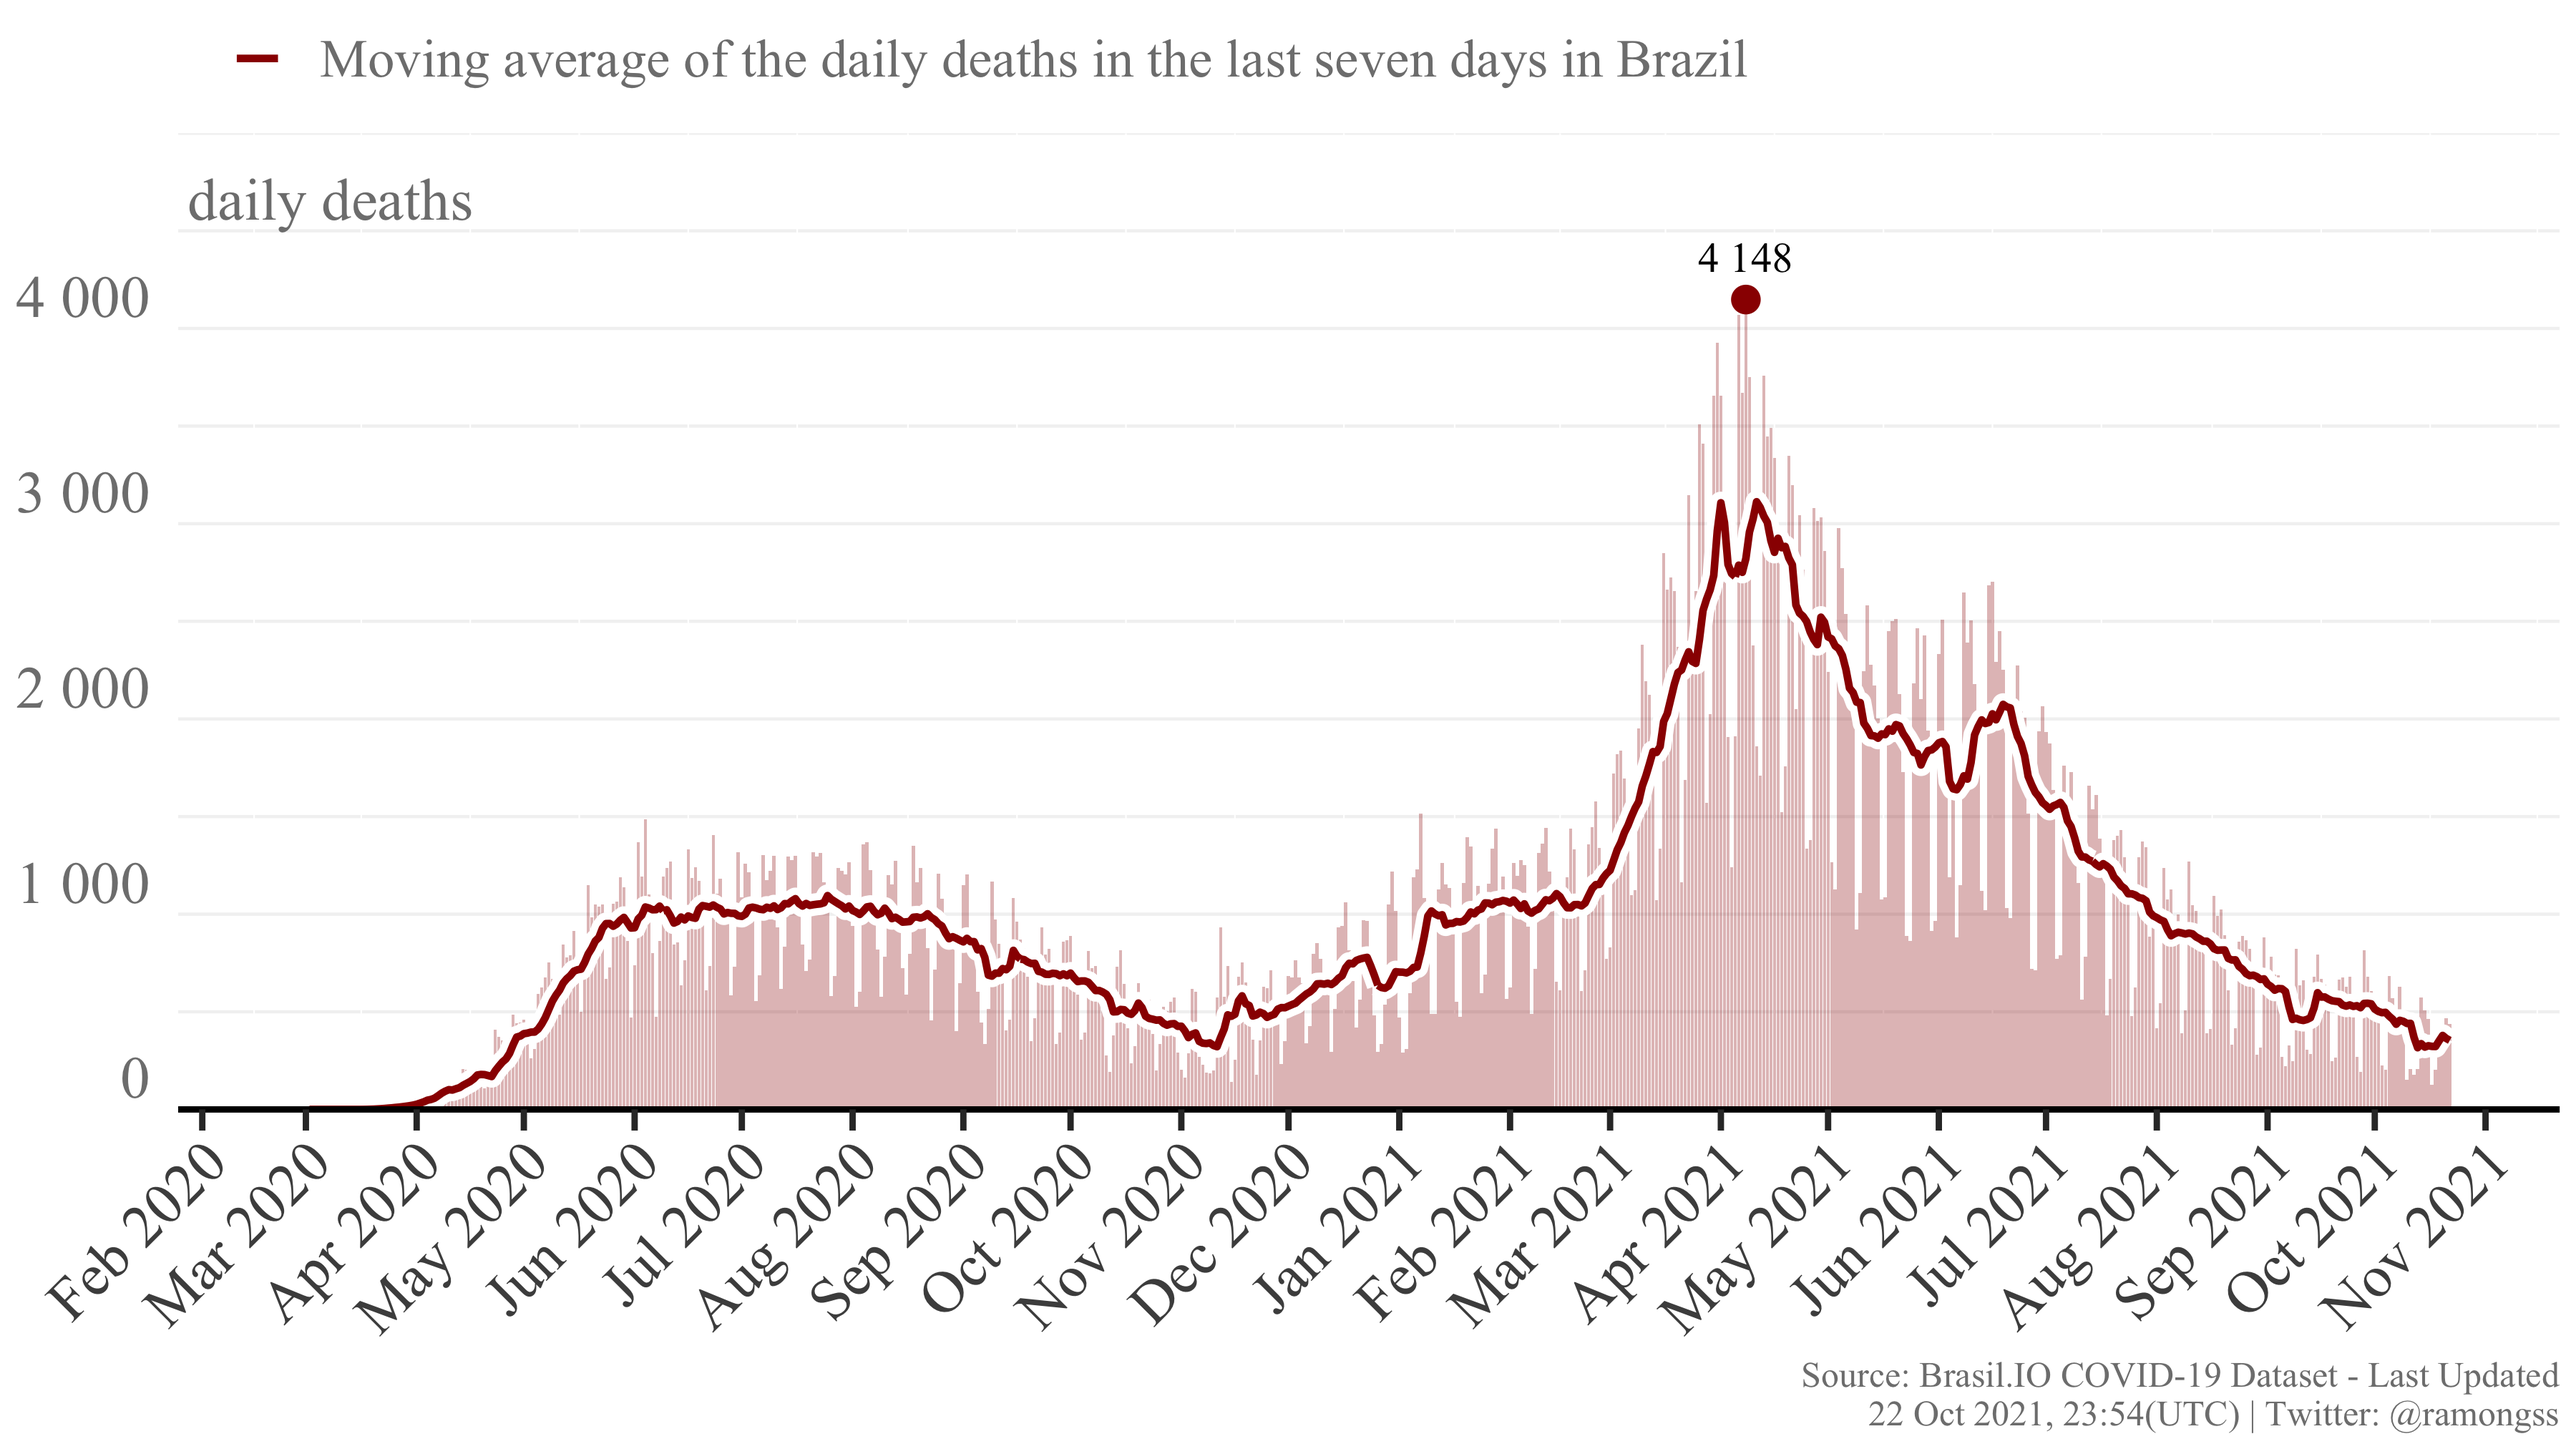
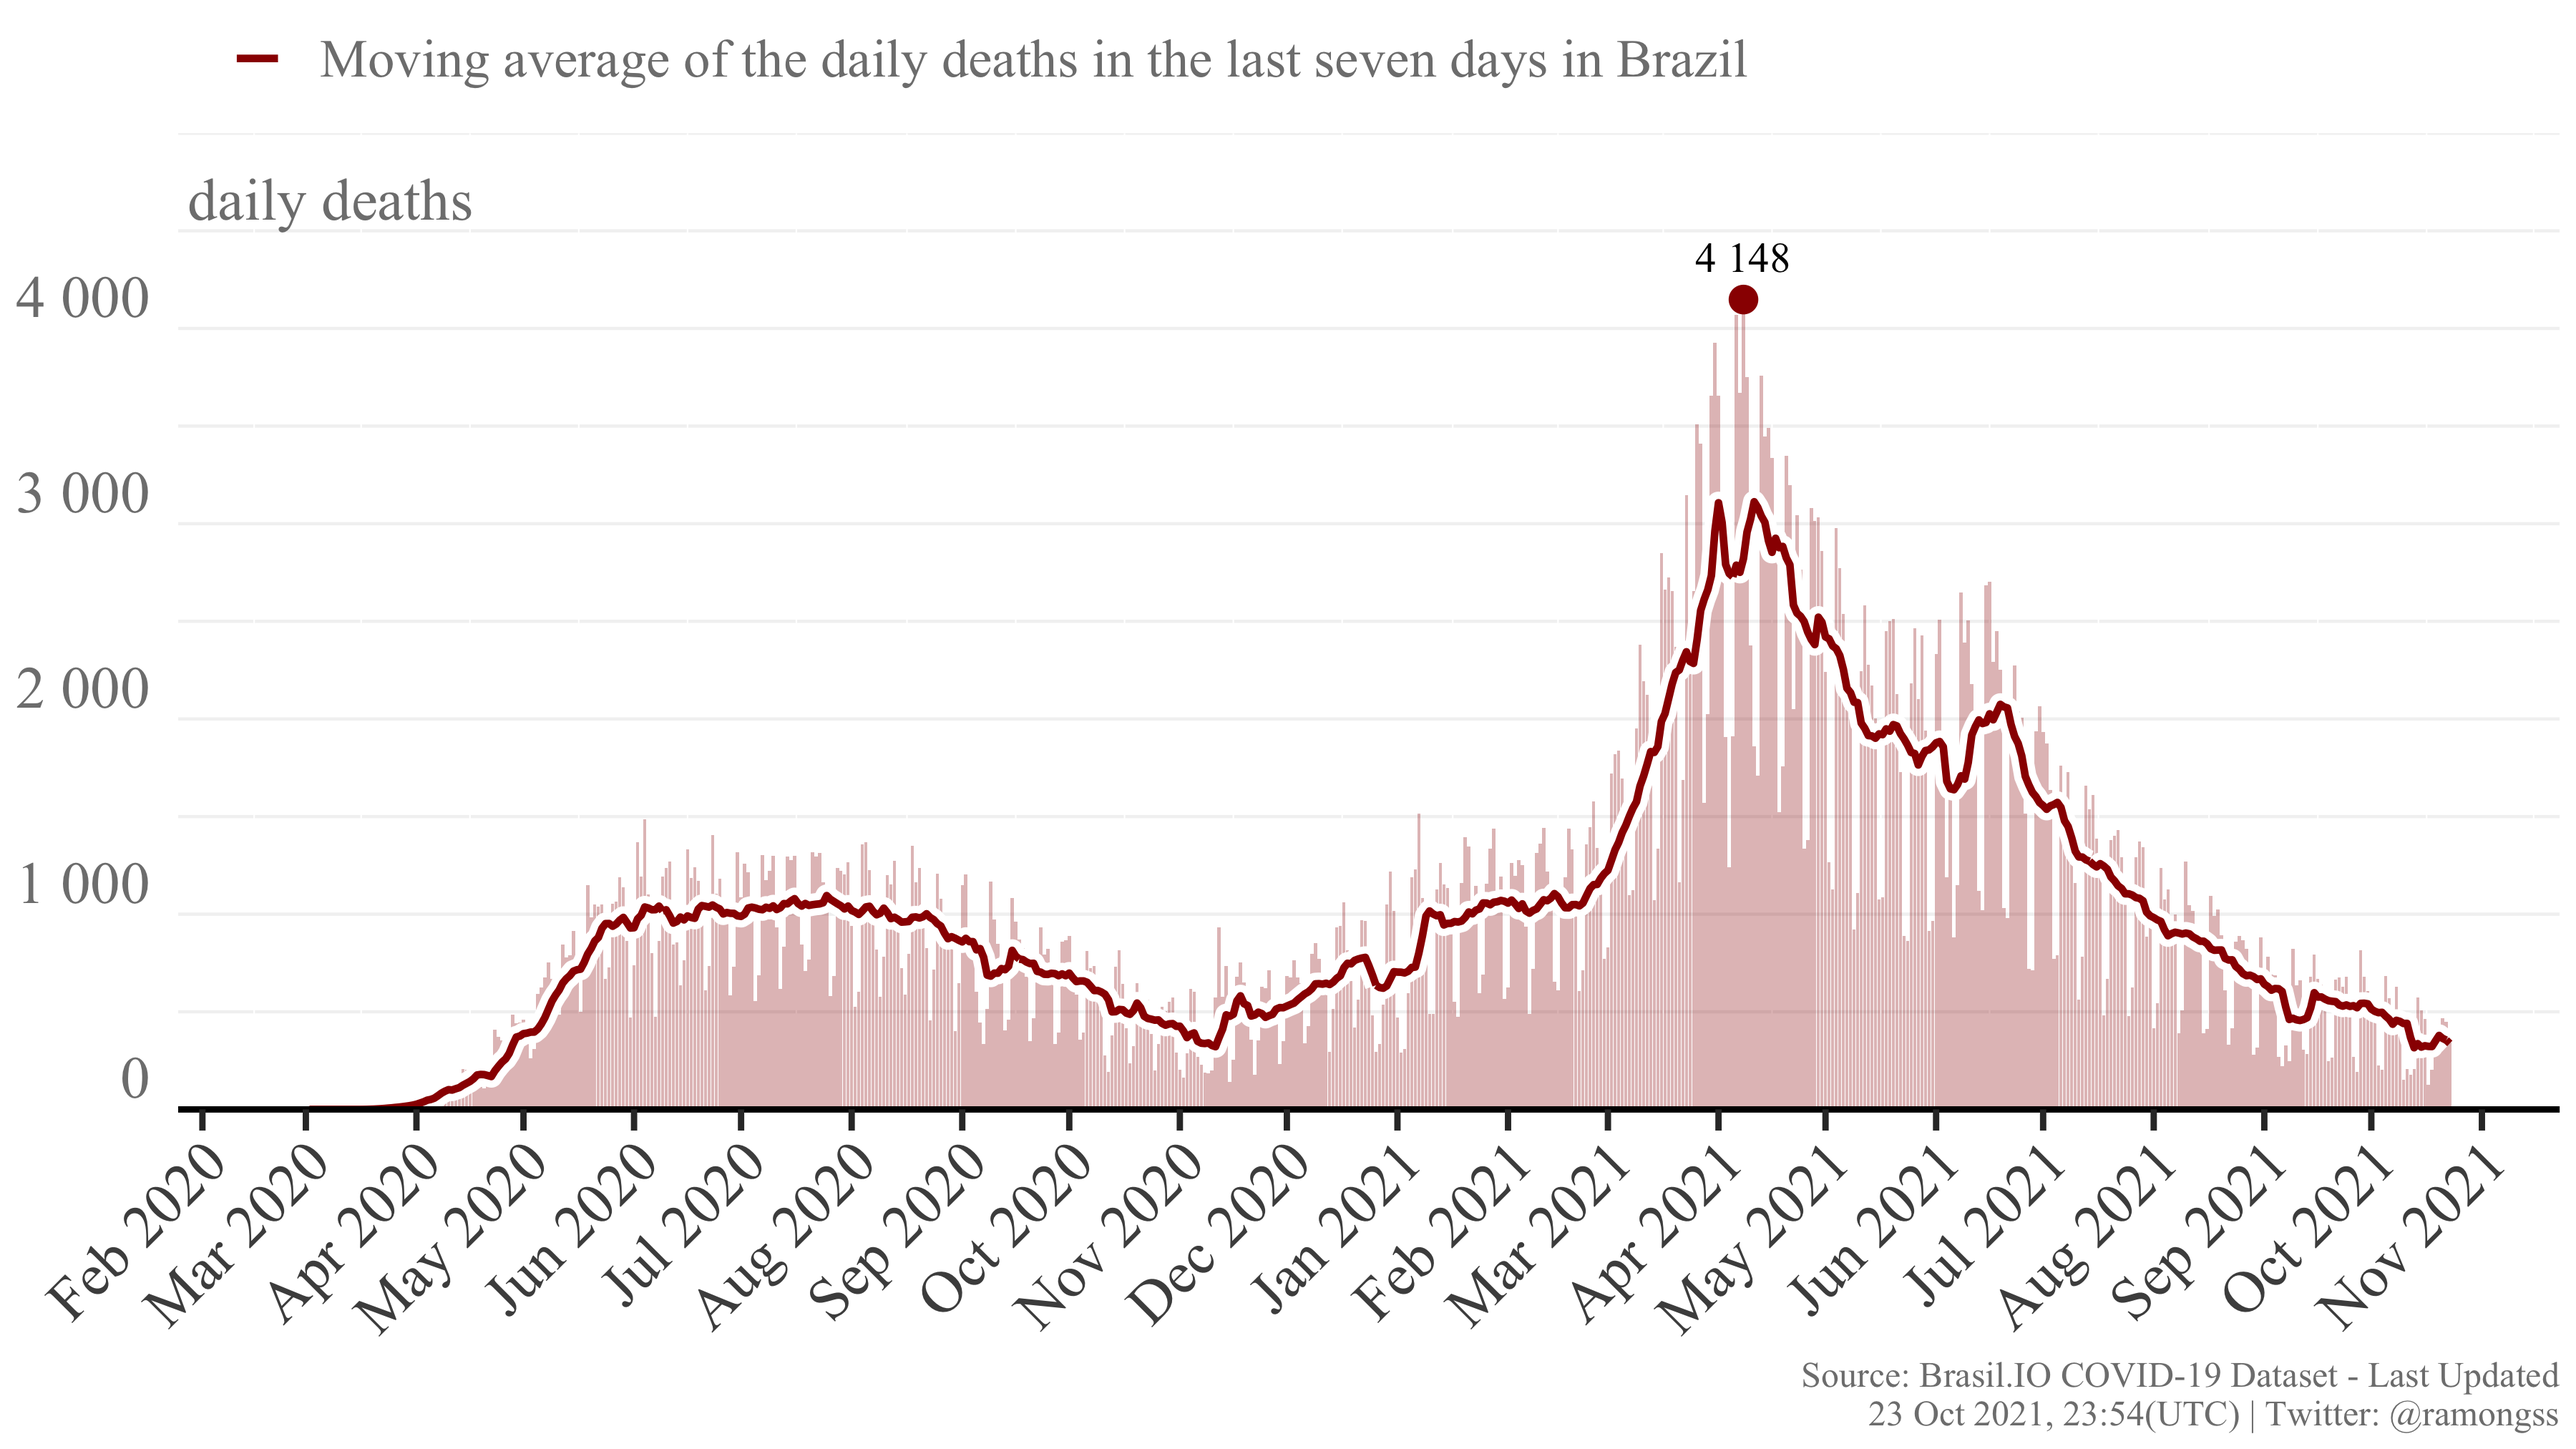
Re-build README.Rmd

diff --git a/README.md b/README.md
@@ -27,8 +27,8 @@ download_brasilio_table <- function(dataset = "covid19", table_name){
 
 ## COVID-19 Confirmed cases
 
-Currently, Brazil has a total of **21,716,939** confirmed cases at **22
-Oct, 2021**, with **13,006** new confirmed cases. The daily maximum
+Currently, Brazil has a total of **21,729,093** confirmed cases at **23
+Oct, 2021**, with **11,714** new confirmed cases. The daily maximum
 incidence was **124,878** confirmed cases at **18 Sep, 2021**. Here
 follows the Figure showing the confirmed case incidence as the bars, and
 the line as the moving average of the last 7 days.
@@ -37,8 +37,8 @@ the line as the moving average of the last 7 days.
 
 ## COVID-19 Deaths
 
-Currently, Brazil has a total of **605,427** deaths at **22 Oct, 2021**,
-with **436** new deaths. The daily maximum deaths incidence was
+Currently, Brazil has a total of **605,782** deaths at **23 Oct, 2021**,
+with **344** new deaths. The daily maximum deaths incidence was
 **4,148** deaths at **08 Apr, 2021**. Here follows the Figure showing
 the deaths incidence as the bars, and the line as the moving average of
 the last 7 days.
@@ -49,4 +49,4 @@ the last 7 days.
 
 This page is daily updated automatically using Github Actions.
 
-*Last update: 22 Oct 2021, 23:54 (UTC).*
+*Last update: 23 Oct 2021, 23:54 (UTC).*
